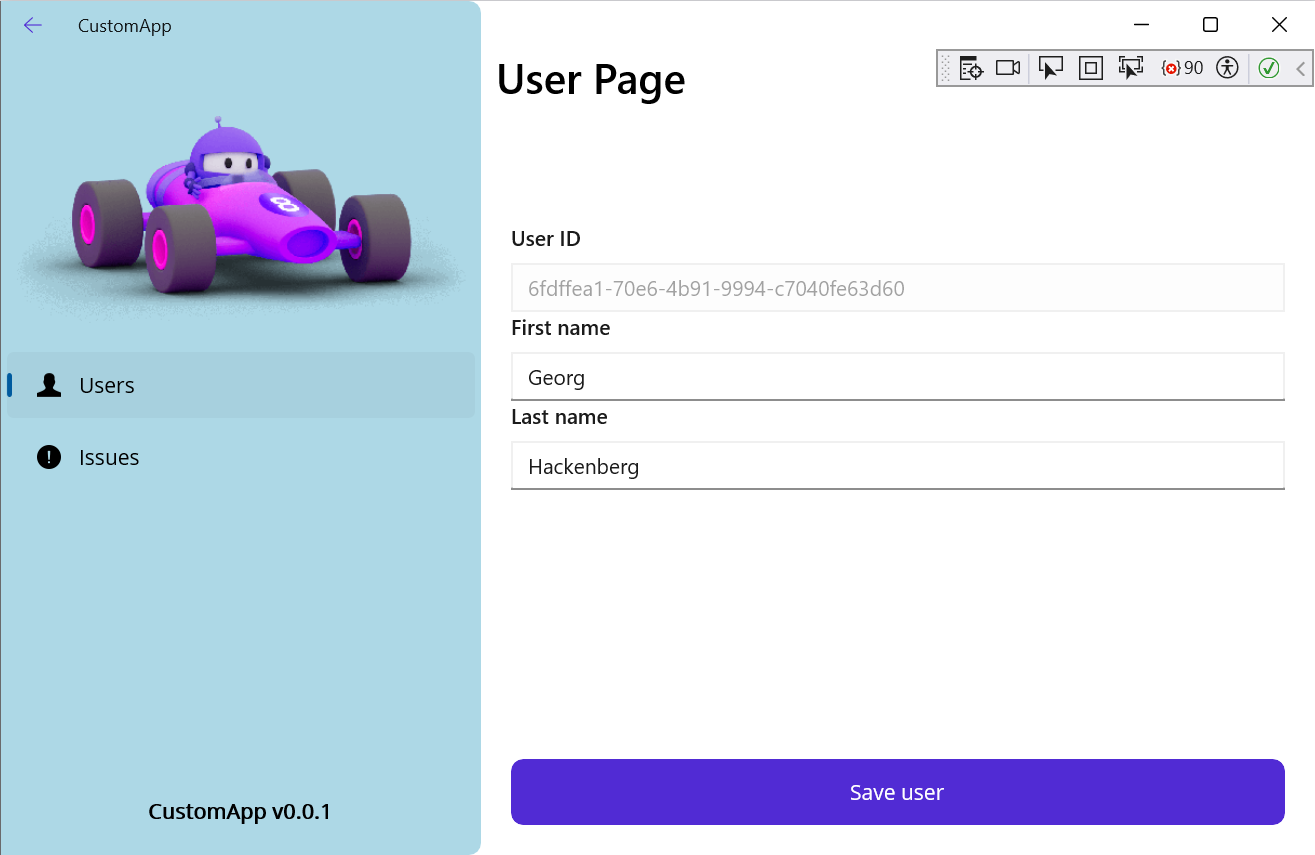
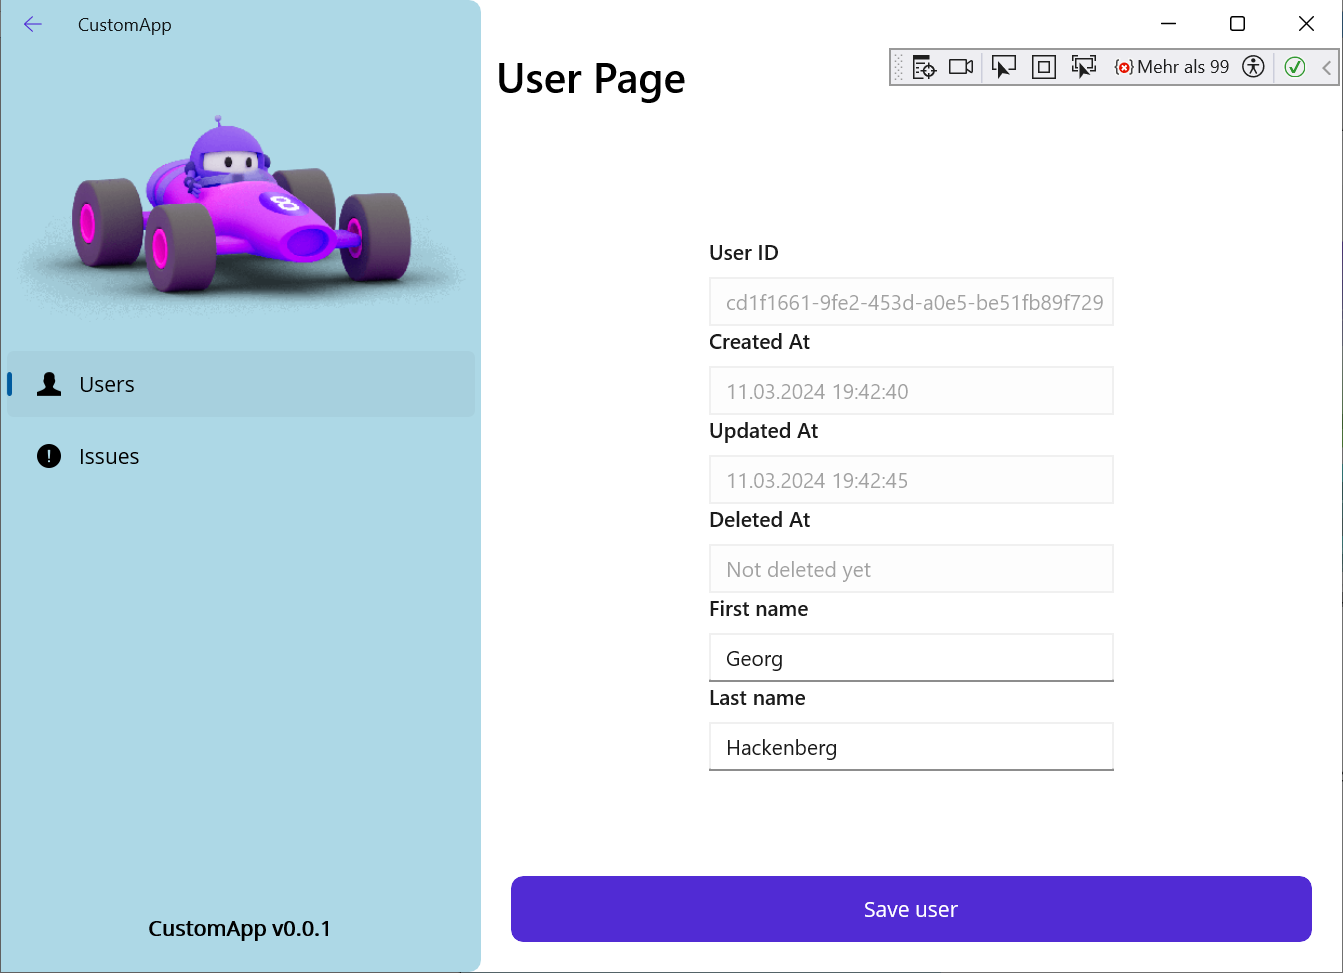
improve user list and form view and update screenshots

diff --git a/Sources/CustomApp/Pages/UserPage.xaml b/Sources/CustomApp/Pages/UserPage.xaml
@@ -6,12 +6,26 @@
              Title="User Page">
 
     <StackLayout Spacing="20" Margin="20">
-        <TableView Intent="Form">
+        <TableView Intent="Form"
+                   HorizontalOptions="Center"
+                   VerticalOptions="CenterAndExpand">
             <TableRoot>
                 <TableSection>
                     <EntryCell Label="User ID"
                                Placeholder="The user ID will be generated automatically"
                                Text="{Binding Path=Item.UserId}"
+                               IsEnabled="False"/>
+                    <EntryCell Label="Created At"
+                               Placeholder="Not created yet"
+                               Text="{Binding Path=Item.CreatedAt}"
+                               IsEnabled="False"/>
+                    <EntryCell Label="Updated At"
+                               Placeholder="Not updated yet"
+                               Text="{Binding Path=Item.UpdatedAt}"
+                               IsEnabled="False"/>
+                    <EntryCell Label="Deleted At"
+                               Placeholder="Not deleted yet"
+                               Text="{Binding Path=Item.DeletedAt}"
                                IsEnabled="False"/>
                     <EntryCell Label="First name"
                                Placeholder="Enter first name"
@@ -26,11 +40,11 @@
         </TableView>
         <ActivityIndicator IsRunning="True"
                            HorizontalOptions="Center"
-                           VerticalOptions="CenterAndExpand"
+                           VerticalOptions="Center"
                            IsVisible="{Binding Path=IsLoadVisible}"/>
         <Label TextColor="Red"
                HorizontalOptions="Center"
-               VerticalOptions="CenterAndExpand"
+               VerticalOptions="Center"
                Text="{Binding Path=ErrorMessage}"
                IsVisible="{Binding Path=IsErrorVisible}"/>
         <Button Text="Save user"

diff --git a/Sources/CustomApp/Pages/UsersPage.xaml b/Sources/CustomApp/Pages/UsersPage.xaml
@@ -26,9 +26,10 @@
                     <ViewCell>
                         <StackLayout Margin="20" Spacing="20"
                                      Orientation="Horizontal">
-                            <Label Text="{Binding Path=UserId}"/>
                             <Label Text="{Binding Path=FirstName}"/>
                             <Label Text="{Binding Path=LastName}"/>
+                            <Label Text="{Binding Path=CreatedAt}"/>
+                            <Label Text="{Binding Path=UpdatedAt}"/>
                         </StackLayout>
                     </ViewCell>
                 </DataTemplate>
